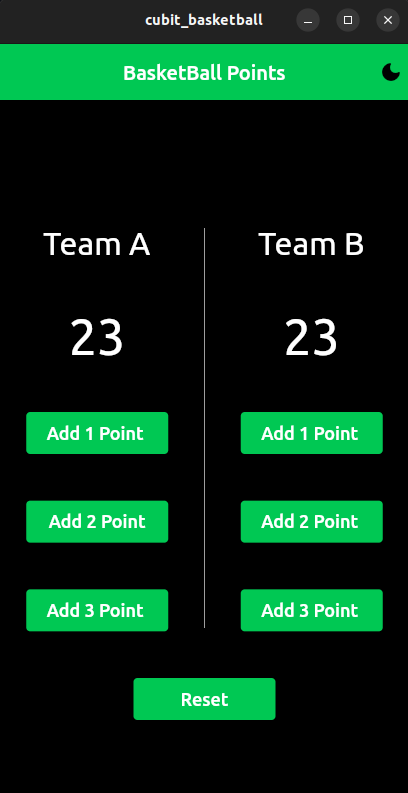
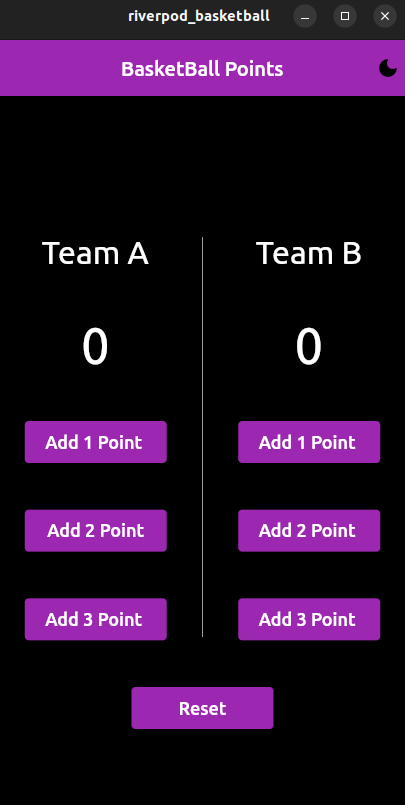
flutter basketball with riverpod

diff --git a/riverpod_basketball/lib/f_basketball/presentation/screens/basketball.dart b/riverpod_basketball/lib/f_basketball/presentation/screens/basketball.dart
@@ -1,15 +1,15 @@
 import 'package:flutter/material.dart';
 import 'package:flutter_riverpod/flutter_riverpod.dart';
 import 'package:riverpod_basketball/core/utils/app_strings.dart';
-import 'package:riverpod_basketball/f_basketball/presentation/cubit/basketball_cubit.dart';
+import 'package:riverpod_basketball/f_basketball/presentation/riverpod/basketball_riverpod.dart';
 
 class BasketballPointScreen extends ConsumerWidget {
   const BasketballPointScreen({super.key});
 
   @override
   Widget build(BuildContext context, WidgetRef ref) {
-    var myRiverpod = ref.watch(basketBallProvider); 
-    bool isDarkStatus = myRiverpod.isDark;
+    var myProviderAction =  ref.read(basketBallProvider);
+    var myProviderDataReading  = ref.watch(basketBallProvider);
     return Scaffold(
       // ====================== app bar ================= //
       appBar: AppBar(
@@ -21,15 +21,15 @@ class BasketballPointScreen extends ConsumerWidget {
             onPressed: () {
               
 
-             myRiverpod.basketBallAction(
+             myProviderAction.basketBallAction(
                   BasketBallEnumAction.changeTheme,
-                  isDarkInput: !isDarkStatus);
+                  isDarkInput: ! myProviderDataReading.isDark);
             },
             icon: Icon(
-              !isDarkStatus
+              !myProviderDataReading.isDark
                   ? Icons.light_mode_outlined
                   : Icons.dark_mode_rounded,
-              color: isDarkStatus ? Colors.black : Colors.white,
+              color: myProviderAction.isDark ? Colors.black : Colors.white,
             ),
           ),
         ],
@@ -58,14 +58,14 @@ class BasketballPointScreen extends ConsumerWidget {
                             ),
                           ),
                           Text(
-                            "${myRiverpod.teamAValue}",
+                            "${myProviderDataReading.teamAValue}",
                             style: const TextStyle(
                               fontSize: 50,
                             ),
                           ),
                           ElevatedButton(
                             onPressed: () {
-                              myRiverpod.basketBallAction(BasketBallEnumAction.teamA,
+                              myProviderAction.basketBallAction(BasketBallEnumAction.teamA,
                                       amountOfexcess: 1);
                             },
                             child: const Text(
@@ -77,7 +77,7 @@ class BasketballPointScreen extends ConsumerWidget {
                           ),
                           ElevatedButton(
                             onPressed: () {
-                              myRiverpod.basketBallAction(BasketBallEnumAction.teamA,
+                              myProviderAction.basketBallAction(BasketBallEnumAction.teamA,
                                       amountOfexcess: 2);
                             },
                             child: const Text(
@@ -89,7 +89,7 @@ class BasketballPointScreen extends ConsumerWidget {
                           ),
                           ElevatedButton(
                             onPressed: () {
-                              myRiverpod.basketBallAction(BasketBallEnumAction.teamA,
+                              myProviderAction.basketBallAction(BasketBallEnumAction.teamA,
                                       amountOfexcess: 3);
                             },
                             child: const Text(
@@ -125,14 +125,14 @@ class BasketballPointScreen extends ConsumerWidget {
                             ),
                           ),
                           Text(
-                            '${myRiverpod.teamBValue}',
+                            '${myProviderDataReading.teamBValue}',
                             style: const TextStyle(
                               fontSize: 50,
                             ),
                           ),
                           ElevatedButton(
                             onPressed: () {
-                             myRiverpod.basketBallAction(BasketBallEnumAction.teamB,
+                             myProviderAction.basketBallAction(BasketBallEnumAction.teamB,
                                       amountOfexcess: 1);
                             },
                             child: const Text(
@@ -144,7 +144,7 @@ class BasketballPointScreen extends ConsumerWidget {
                           ),
                           ElevatedButton(
                             onPressed: () {
-                             myRiverpod.basketBallAction(BasketBallEnumAction.teamB,
+                             myProviderAction.basketBallAction(BasketBallEnumAction.teamB,
                                       amountOfexcess: 2);
                             },
                             child: const Text(
@@ -156,7 +156,7 @@ class BasketballPointScreen extends ConsumerWidget {
                           ),
                           ElevatedButton(
                             onPressed: () {
-                            myRiverpod .basketBallAction(BasketBallEnumAction.teamB,
+                            myProviderAction .basketBallAction(BasketBallEnumAction.teamB,
                                       amountOfexcess: 3);
                             },
                             child: const Text(
@@ -174,7 +174,7 @@ class BasketballPointScreen extends ConsumerWidget {
               ),
               ElevatedButton(
                 onPressed: () {
-                  myRiverpod.basketBallAction(
+                  ref.read(basketBallProvider).basketBallAction(
                     BasketBallEnumAction.reset,
                   );
                 },

diff --git a/riverpod_basketball/lib/config/theme.dart b/riverpod_basketball/lib/config/theme.dart
@@ -3,7 +3,7 @@ import 'package:flutter/material.dart';
 class Styles {
   static ThemeData themeData(bool isDarkTheme, BuildContext context) {
     return ThemeData(
-      primarySwatch: Colors.green,
+      primarySwatch: Colors.purple,
       scaffoldBackgroundColor: isDarkTheme ? Colors.black : Colors.grey[50],
      //  TextTheme
       textTheme: TextTheme(
@@ -14,13 +14,13 @@ class Styles {
       appBarTheme: AppBarTheme(
         elevation: 0.0,
         centerTitle: true,
-        backgroundColor: Colors.greenAccent.shade700,
+        backgroundColor: Colors.purple,
         foregroundColor: isDarkTheme ? Colors.white : Colors.black,
       ),
       //  ElevatedButtonThemeData
       elevatedButtonTheme: ElevatedButtonThemeData(
         style: ElevatedButton.styleFrom(
-          backgroundColor: Colors.greenAccent.shade700,
+          backgroundColor: Colors.purple,
           foregroundColor: isDarkTheme ? Colors.white : Colors.black,
           minimumSize: const Size(150, 50),
         ),

diff --git a/riverpod_basketball/lib/app.dart b/riverpod_basketball/lib/app.dart
@@ -4,7 +4,7 @@ import 'package:flutter/material.dart';
 import 'package:flutter_riverpod/flutter_riverpod.dart';
 import 'package:riverpod_basketball/config/theme.dart';
 import 'package:riverpod_basketball/core/utils/app_strings.dart';
-import 'package:riverpod_basketball/f_basketball/presentation/cubit/basketball_cubit.dart';
+import 'package:riverpod_basketball/f_basketball/presentation/riverpod/basketball_riverpod.dart';
 import 'package:riverpod_basketball/f_basketball/presentation/screens/basketball.dart';
 
 class BasketBallApp extends ConsumerWidget {
